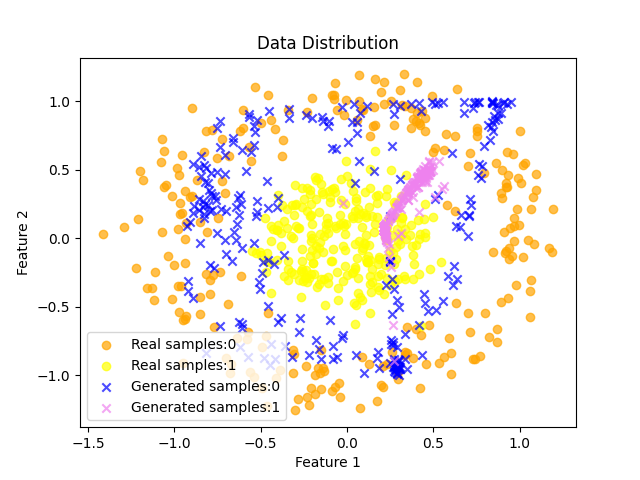
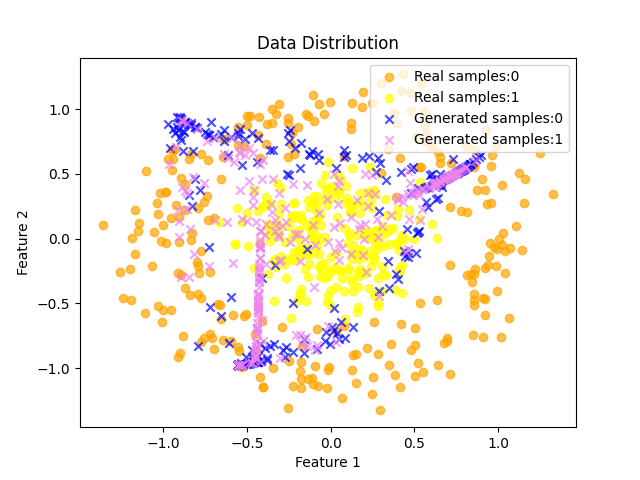
tune IMP param

diff --git a/Toy Samples/config.py b/Toy Samples/config.py
@@ -8,8 +8,8 @@ Z_DIM = 4
 GENDIM = [8,4,4]
 LEARNING_RATE = 0.00001
 BATCH_SIZE = 256
-EPOCHS = 30000
+EPOCHS = 35000
 CRITIC_ITERS = 5
 LAMBDA_GP = 10 ## given in WGAN-GP paper
-IMP = 0.25
+IMP = 0.6
 DEVICE = torch.device('cuda' if torch.cuda.is_available() else 'cpu')
